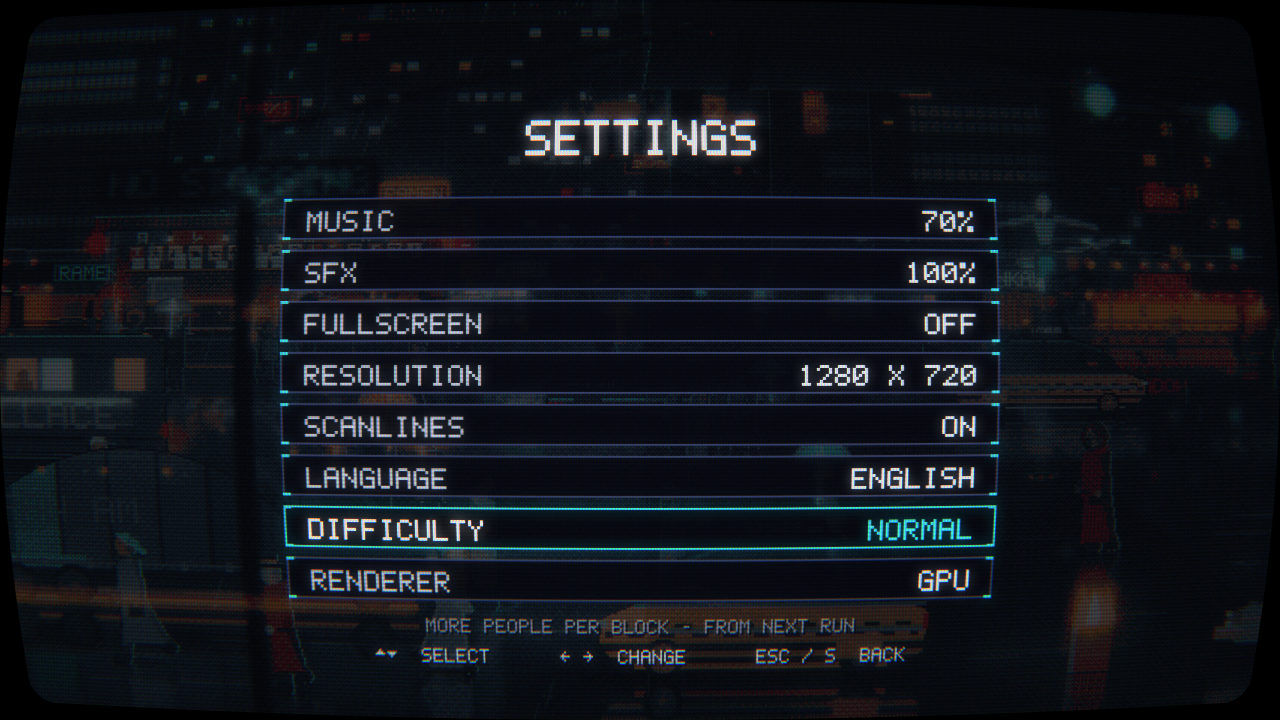
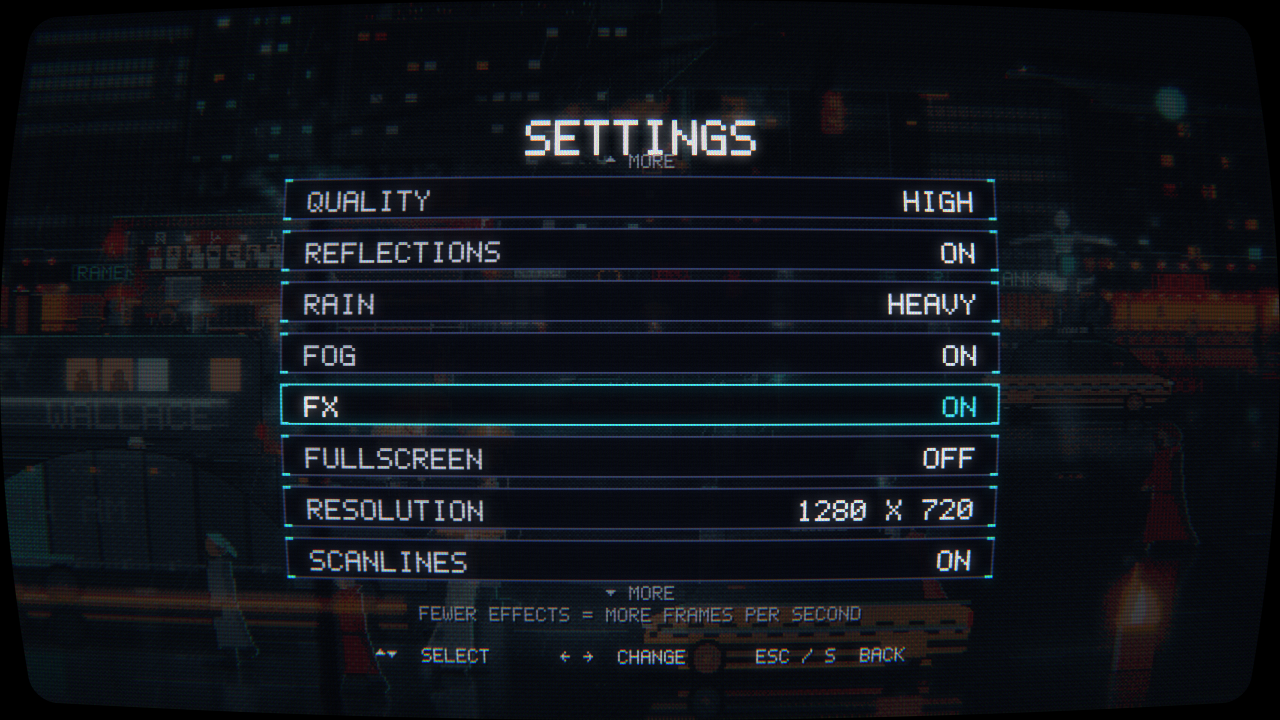
Leistungs-Einstellungen wie in der Android-Version: Qualitaet, Reflexionen, Regen, Nebel, FX
- Einstellungen: QUALITAET (HOCH/MITTEL/NIEDRIG) setzt die Einzeloptionen, jede
  danach einzeln umschaltbar; Liste scrollt (8 Zeilen sichtbar, wie im Port)
- Szene: Reflexionen (Strasse, Spiegelbilder, Schilder), Regen (viel/wenig/aus),
  Nebel, FX (Funken, Dampf, Rufwelle, Schwaden, Spritzer) abschaltbar;
  Kabel-Aufloesung je Qualitaet. NIEDRIG halbiert in dichten Vierteln etwa die
  CPU-Zeit je Bild
- i18n EN, Test test_settings_quality_presets (49/49), README EN/DE, Screenshot
  Einstellungen, 0.3.1

diff --git a/shadegunner/render/scene.py b/shadegunner/render/scene.py
@@ -33,6 +33,7 @@ SLATE = (104, 118, 126)
 TEAL, CYAN, MAGENTA, AMBER, GREEN = C[11], C[12], C[13], C[14], C[15]
 
 W, H = config.RENDER_W, config.RENDER_H
+_NULL_IMG = QImage()        # Reflexionen aus: drawImage zeichnet nichts
 PLUS = QPainter.CompositionMode.CompositionMode_Plus
 OVER = QPainter.CompositionMode.CompositionMode_SourceOver
 
@@ -149,6 +150,19 @@ class Scene:
         self._fg_img = QImage(w, h, QImage.Format.Format_ARGB32_Premultiplied)
         self._nb_img = QImage(w, h, QImage.Format.Format_ARGB32_Premultiplied)   # nah, leicht unscharf
         self._near = []
+        # Leistungs-Optionen (Einstellungen; wie im Android-Port). Default = volle Pracht.
+        self.opt_reflections = True
+        self.opt_rain = "viel"        # "viel" | "wenig" | "aus"
+        self.opt_fog = True
+        self.opt_fx = True
+        self.opt_quality = "hoch"     # "hoch" | "mittel" | "niedrig" (u. a. Kabel-Auflösung)
+        self._rain_applied = "viel"
+
+    def _apply_rain(self):
+        """Regenmenge gemäß opt_rain (Ausgangsmenge der Zone bleibt sonst gleich)."""
+        f = {"wenig": 0.6, "aus": 0.0}.get(self.opt_rain, 1.0)
+        self.fx.set_rain(self.city.th["rain"] * f)
+        self._rain_applied = self.opt_rain
 
     # ------------------------------------------------------------------ Zone
     def ensure_zone(self, zone_index, seed, length=None):
@@ -161,7 +175,7 @@ class Scene:
         vehicles.set_zone(zone_index)
         self.city = City(zone_index, float(length), seed)
         th = self.city.th
-        self.fx.set_rain(th["rain"])
+        self._apply_rain()
         rng = random.Random(seed + 77)
         self.bb_frames = [_billboard_frames(rng, bb[2], bb[3], rng.choice(("face", "logo", "kanji")), th["neon"])
                           for bb in self.city.billboards]
@@ -225,6 +239,8 @@ class Scene:
         cam_dx = 0.0 if self._last_cam is None else (cam - self._last_cam) * persp.PPU_NEAR * 0.6
         self._last_cam = cam
 
+        if self.opt_rain != self._rain_applied:
+            self._apply_rain()
         fx.update_rain(dt, cam_dx)
         fx.update_steam(dt)
         self._update_bikes(dt, cam)
@@ -279,7 +295,8 @@ class Scene:
         self._street(p, e, cam, t)
         self._holos(p, e, cam, t, "street")
         self._ramen(p, e, world, cam, t, dt)
-        self._shout_fx(p, e, world, cam, t)
+        if self.opt_fx:
+            self._shout_fx(p, e, world, cam, t)
         self._fog(p, 1, persp.FACADE_Y - 28, 72, cam * persp.ppu(0.0) + t * 9.0, min(1.0, fd * 0.7))
         self._spans_back(p, e, cam, t)
         self._near = []
@@ -290,26 +307,30 @@ class Scene:
             self._draw_dove(p, e, dv, cam)
         if self.dark > 0:
             p.fillRect(0, 0, W, H, QColor(2, 3, 10, int(165 * self.dark)))
-            self._glints(p, e, world, cam, boost=True)
+            if self.opt_fx:
+                self._glints(p, e, world, cam, boost=True)
             self._flashlight(p, e, world, cam)
         self._vehicle_lights(p, e, world, cam, t)
-        self._combat(p, e, world, cam, t)
-        fx.draw_steam(p, cam, city.facade.factor)
+        if self.opt_fx:
+            self._combat(p, e, world, cam, t)
+            fx.draw_steam(p, cam, city.facade.factor)
         self._patrol(p, e, world, cam, t)
         self._spinners(p, e, dt, t, near=True)
-        dry = self._span_clip(cam)
-        if dry is not None:
-            p.save()
-            p.setClipRegion(QRegion(0, 0, W, H).subtracted(dry))
-        fx.draw_rain(p, mix(th["fog"], PALE, 0.55))
-        if dry is not None:
-            p.restore()
-        self._beam_rain(p)
+        if self.opt_rain != "aus":
+            dry = self._span_clip(cam)
+            if dry is not None:
+                p.save()
+                p.setClipRegion(QRegion(0, 0, W, H).subtracted(dry))
+            fx.draw_rain(p, mix(th["fog"], PALE, 0.55))
+            if dry is not None:
+                p.restore()
+            self._beam_rain(p)
         self._fog(p, 1, H - 70, 78, cam * persp.ppu(1.15) + t * 14.0, min(1.0, fd * 0.42))
         # Ganzflächiger Nebelschleier: bei dichter Lage verschwimmt auch der Vordergrund
         # (Vordergrund liegt "näher an der Kamera", also über allem anderen).
         self._fog_img(p, city.bank, -30, H + 70, cam * persp.ppu(1.0) * 0.6 + t * 7.0, min(0.46, fd * 0.34))
-        self._wisps(p, dt, cam)
+        if self.opt_fx:
+            self._wisps(p, dt, cam)
         self._fg_e = e
         self._foreground(p, cam)
         self._fg_e = None
@@ -462,7 +483,7 @@ class Scene:
         self._fog_img(p, self.city.fog_layers[idx], y, h, scroll, opacity)
 
     def _fog_img(self, p, img, y, h, scroll, opacity):
-        if opacity <= 0.01:
+        if not self.opt_fog or opacity <= 0.01:
             return
         iw = img.width()
         off = scroll % iw
@@ -628,6 +649,8 @@ class Scene:
 
     def _fog_band(self, p):
         """Dunst über der Skyline: die Ferne versinkt stärker im Nebel als die Front."""
+        if not self.opt_fog:
+            return
         th = self.city.th
         fy = persp.FACADE_Y
         fd = getattr(self, "_fog_d", th["fog_amt"])
@@ -1098,7 +1121,7 @@ class Scene:
         lo = cam - W / persp.ppu(-0.075) * 0.5 - 120
         hi = cam + W / persp.ppu(-0.075) * 0.5 + 120
         i0 = bisect.bisect_left([w["x"] for w in ws], lo)
-        n = 28
+        n = {"hoch": 28, "mittel": 20}.get(self.opt_quality, 14)
         d_end = 2.4
         for w in ws[i0:]:
             if w["x"] > hi:
@@ -1171,7 +1194,7 @@ class Scene:
         band = 12
         k = getattr(self, "_reflk", 1.0) * (1.0 - 0.8 * self.dark)
         for refl, mode, op in ((city.facade_refl_body, OVER, min(1.0, 0.8 * k)),
-                               (city.facade_refl, PLUS, min(1.0, 0.95 * k))):
+                               (city.facade_refl, PLUS, min(1.0, 0.95 * k))) if self.opt_reflections else ():
             p.setCompositionMode(mode)
             p.setOpacity(op)
             for kb in range(0, min(refl.height(), H - fy), band):
@@ -1196,7 +1219,7 @@ class Scene:
             p.save()
             p.setClipRegion(reg)
             for refl, mode, op in ((city.facade_refl_body, OVER, min(1.0, 0.95 * k)),
-                                   (city.facade_refl, PLUS, min(1.0, 1.0 * k))):
+                                   (city.facade_refl, PLUS, min(1.0, 1.0 * k))) if self.opt_reflections else ():
                 p.setCompositionMode(mode)
                 p.setOpacity(op)
                 for kb in range(0, min(refl.height(), H - fy), band):
@@ -1222,7 +1245,7 @@ class Scene:
         # Neon-Spiegelung (live, mit Flackern) - ebenfalls weich
         p.setCompositionMode(PLUS)
         L0 = cam * fac.factor - W * 0.5 - 140
-        for s in city.visible(city.signs, city._sign_x, L0, L0 + W + 180):
+        for s in city.visible(city.signs, city._sign_x, L0, L0 + W + 180) if self.opt_reflections else ():
             x = fac.screen_x(s.L, cam)
             if x < -s.w or x > W or s.lit(t) <= 0 or (self.dark > 0.4 and s.seed % 4 != 0):
                 continue
@@ -1299,7 +1322,8 @@ class Scene:
             p.drawPolygon(QPolygonF([QPointF(x - 2, fy), QPointF(x + 2, fy),
                                      QPointF(x + 10, fy + 120), QPointF(x - 10, fy + 120)]))
         p.setCompositionMode(OVER)
-        self.fx.draw_splashes(p, mix(city.th["fog"], PALE, 0.5))
+        if self.opt_fx:
+            self.fx.draw_splashes(p, mix(city.th["fog"], PALE, 0.5))
 
     # ------------------------------------------------------------------ Überbauten
     D_FAR = config.FACADE_DEPTH
@@ -1775,6 +1799,8 @@ class Scene:
     def _mirror(self, img):
         """Wet-Street-Reflexion (progressiv scharf->weich, city.soft_reflection).
         Einmal pro Sprite gerechnet und gecacht - Rendern kostet nur ein drawImage."""
+        if not self.opt_reflections:
+            return _NULL_IMG
         key = img.cacheKey()
         r = self._refl.get(key)
         if r is None:

diff --git a/shadegunner/hud.py b/shadegunner/hud.py
@@ -621,6 +621,13 @@ class HUD:
     SETTING_ROWS = [
         ("music", "MUSIK", lambda s: f"{int(round(s['music'] * 100)):3d}%", "range"),
         ("sfx", "EFFEKTE", lambda s: f"{int(round(s['sfx'] * 100)):3d}%", "range"),
+        ("quality", "QUALITÄT", lambda s: {"hoch": "HOCH", "mittel": "MITTEL", "niedrig": "NIEDRIG"}.get(
+            s.get("quality", "hoch"), "HOCH"), "cycle"),
+        ("reflections", "REFLEXIONEN", lambda s: "AN" if s.get("reflections", True) else "AUS", "toggle"),
+        ("rain", "REGEN", lambda s: {"viel": "VIEL", "wenig": "WENIG", "aus": "AUS"}.get(s.get("rain", "viel"), "VIEL"),
+         "cycle"),
+        ("fog", "NEBEL", lambda s: "AN" if s.get("fog", True) else "AUS", "toggle"),
+        ("fx", "FX", lambda s: "AN" if s.get("fx", True) else "AUS", "toggle"),
         ("fullscreen", "VOLLBILD", lambda s: "AN" if s["fullscreen"] else "AUS", "toggle"),
         ("resolution", "AUFLÖSUNG", lambda s: f"{s['resolution'][0]} x {s['resolution'][1]}", "cycle"),
         ("scanlines", "SCANLINES", lambda s: "AN" if s["scanlines"] else "AUS", "toggle"),
@@ -630,29 +637,45 @@ class HUD:
         ("renderer", "RENDERER", lambda s: "GPU" if s.get("renderer") != "software" else "SOFTWARE", "toggle"),
     ]
 
+    # Geometrie der Einstellungsliste (scrollt, wenn nicht alle Zeilen passen - wie im Port)
+    SET_W, SET_ROWH, SET_GAP, SET_Y, SET_MAXROWS = 720, 42, 10, 176, 8
+
     def _settings(self, p, ui):
         self._dim(p, 200)
         s = ui.get("settings", {})
         sel = ui.get("settings_sel", 0)
         self._t(p, HW // 2, 120, "EINSTELLUNGEN", WHITE, 5, "center")
-        w, rowh, gap = 720, 42, 10
+        w, rowh, gap, maxrows = self.SET_W, self.SET_ROWH, self.SET_GAP, self.SET_MAXROWS
         x = (HW - w) // 2
-        y = 196
-        for i, (key, label, val, kind) in enumerate(self.SETTING_ROWS):
+        y = self.SET_Y
+        n = len(self.SETTING_ROWS)
+        first = max(0, min(sel - maxrows // 2, max(0, n - maxrows)))
+        last = min(first + maxrows, n)
+        if first > 0:
+            self._t(p, HW // 2, y - 22, "▲ MEHR", SLATE, 2, "center")
+        for i in range(first, last):
+            key, label, val, kind = self.SETTING_ROWS[i]
             on = i == sel
-            y0 = y + i * (rowh + gap)
+            y0 = y + (i - first) * (rowh + gap)
             self._box(p, x, y0, w, rowh, border=CYAN if on else INDIGO, alpha=225)
             self._t(p, x + 24, y0 + 13, label, WHITE if on else ASH, 3)
             self._t(p, x + w - 24, y0 + 13, val(s), CYAN if on else PALE, 3, "right")
             if kind == "range" and on:
                 self._t(p, x + w // 2 + 60, y0 + 15, "←  →", AMBER, 2, "center")
-        note = y + len(self.SETTING_ROWS) * (rowh + gap) + 8
+        if first + maxrows < n:
+            self._t(p, HW // 2, y + maxrows * (rowh + gap) - 6, "▼ MEHR", SLATE, 2, "center")
+        note = y + maxrows * (rowh + gap) + 16
         if s.get("renderer") == "software":
             self._t(p, HW // 2, note, "RENDERER WECHSELT MIT DEM NÄCHSTEN START", SLATE, 2, "center")
             note += 22
-        if self.SETTING_ROWS[sel][0] == "difficulty":
+        key = self.SETTING_ROWS[sel][0]
+        if key == "difficulty":
             self._t(p, HW // 2, note, "MEHR MENSCHEN JE VIERTEL - GILT AB DEM NÄCHSTEN EINSATZ", SLATE, 2, "center")
-        self._t(p, HW // 2, HH - 70, "▲▼  WÄHLEN      ← →  ÄNDERN      ESC / S  ZURÜCK", ASH, 2, "center")
+            note += 22
+        elif key in ("quality", "reflections", "rain", "fog", "fx"):
+            self._t(p, HW // 2, note, "WENIGER EFFEKTE = MEHR BILDER PRO SEKUNDE", SLATE, 2, "center")
+            note += 22
+        self._t(p, HW // 2, max(HH - 70, note + 2), "▲▼  WÄHLEN      ← →  ÄNDERN      ESC / S  ZURÜCK", ASH, 2, "center")
 
     def _pause(self, p):
         self._dim(p, 150)

diff --git a/shadegunner/game.py b/shadegunner/game.py
@@ -63,6 +63,7 @@ class _GameMixin:
         self.settings_sel = 0
         self._settings_back = "title"
         self.audio.set_volumes(self.settings["music"], self.settings["sfx"])
+        self._apply_perf()
 
         self._gl = None
         self.renderer = None
@@ -312,8 +313,33 @@ class _GameMixin:
             i18n.set_lang(s["lang"])
         elif key == "renderer":
             s["renderer"] = "software" if s.get("renderer") != "software" else "auto"
+        elif key == "quality":
+            order = ["hoch", "mittel", "niedrig"]
+            cur = s.get("quality", "hoch")
+            i = order.index(cur) if cur in order else 0
+            s["quality"] = order[(i + (1 if d > 0 else -1)) % len(order)]
+            s.update(settings.QUALITY[s["quality"]])
+            self._apply_perf()
+        elif key in ("reflections", "fog", "fx"):
+            s[key] = not s.get(key, True)
+            self._apply_perf()
+        elif key == "rain":
+            order = ["viel", "wenig", "aus"]
+            cur = s.get("rain", "viel")
+            i = order.index(cur) if cur in order else 0
+            s["rain"] = order[(i + (1 if d > 0 else -1)) % len(order)]
+            self._apply_perf()
         settings.save(s)
         self.audio.play("target")
+
+    def _apply_perf(self):
+        """Leistungs-Optionen an die Szene geben (Qualität, Reflexionen, Regen, Nebel, FX)."""
+        sc, s = self.scene, self.settings
+        sc.opt_quality = s.get("quality", "hoch")
+        sc.opt_reflections = bool(s.get("reflections", True))
+        sc.opt_rain = s.get("rain", "viel")
+        sc.opt_fog = bool(s.get("fog", True))
+        sc.opt_fx = bool(s.get("fx", True))
 
     def _apply_scanlines(self):
         if self.renderer is not None:

diff --git a/shadegunner/settings.py b/shadegunner/settings.py
@@ -6,8 +6,16 @@ import os
 from .save import _base_dir
 
 # renderer: "auto" (OpenGL, sonst Software) | "software" (immer CPU)
+# quality: Sammelstufe für die Leistungs-Optionen (reflections, rain, fog, fx) - wie im
+# Android-Port; einzeln änderbar. rain: "viel" | "wenig" | "aus".
 DEFAULTS = dict(music=0.7, sfx=1.0, fullscreen=False, resolution=[1280, 720],
-                scanlines=True, renderer="auto", difficulty="normal", lang="de")
+                scanlines=True, renderer="auto", difficulty="normal", lang="de",
+                quality="hoch", reflections=True, rain="viel", fog=True, fx=True)
+QUALITY = {
+    "hoch": dict(reflections=True, rain="viel", fog=True, fx=True),
+    "mittel": dict(reflections=False, rain="viel", fog=True, fx=True),
+    "niedrig": dict(reflections=False, rain="aus", fog=False, fx=False),
+}
 
 
 def _path():
@@ -30,6 +38,10 @@ def load():
         d["difficulty"] = "normal"
     if d.get("lang") not in ("de", "en"):
         d["lang"] = "de"
+    if d.get("quality") not in QUALITY:
+        d["quality"] = "hoch"
+    if d.get("rain") not in ("viel", "wenig", "aus"):
+        d["rain"] = "viel"
     return d
 
 

diff --git a/tests/test_sim.py b/tests/test_sim.py
@@ -794,6 +794,22 @@ def test_settings_rows_match_keys():
     assert "lang" in _GameMixin._SETTING_KEYS
 
 
+def test_settings_quality_presets():
+    """Leistungs-Optionen wie im Android-Port: Qualitätsstufen setzen die Einzeloptionen,
+    jede Stufe kennt alle Optionen, die Defaults sind gültig."""
+    from shadegunner import settings
+    from shadegunner.hud import HUD
+    keys = {"reflections", "rain", "fog", "fx"}
+    for q, preset in settings.QUALITY.items():
+        assert set(preset) == keys, q
+    assert settings.DEFAULTS["quality"] in settings.QUALITY
+    rows = [r[0] for r in HUD.SETTING_ROWS]
+    assert {"quality"} | keys <= set(rows)
+    d = dict(settings.DEFAULTS, quality="niedrig", **settings.QUALITY["niedrig"])
+    for r in HUD.SETTING_ROWS:
+        assert isinstance(r[2](d), str) and r[2](d), r[0]
+
+
 def test_towers_are_objects():
     for z in range(5):
         w = World(seed=7, zone_index=z)

diff --git a/shadegunner/i18n.py b/shadegunner/i18n.py
@@ -120,6 +120,19 @@ TR = {
     "SPRACHE": "LANGUAGE",
     "AN": "ON",
     "AUS": "OFF",
+    "QUALITÄT": "QUALITY",
+    "HOCH": "HIGH",
+    "MITTEL": "MEDIUM",
+    "NIEDRIG": "LOW",
+    "REFLEXIONEN": "REFLECTIONS",
+    "REGEN": "RAIN",
+    "VIEL": "HEAVY",
+    "WENIG": "LIGHT",
+    "NEBEL": "FOG",
+    "FX": "FX",
+    "▲ MEHR": "▲ MORE",
+    "▼ MEHR": "▼ MORE",
+    "WENIGER EFFEKTE = MEHR BILDER PRO SEKUNDE": "FEWER EFFECTS = MORE FRAMES PER SECOND",
     "LEICHT": "EASY",
     "NORMAL": "NORMAL",
     "SCHWER": "HARD",

diff --git a/shadegunner/__init__.py b/shadegunner/__init__.py
@@ -4,4 +4,4 @@ Engine-Renderpfad aus `asciiplay`: Bayer-Ordered-Dithering gegen eine feste
 Palette + CRT-Postprocessing. Siehe DESIGN.md.
 """
 
-__version__ = "0.3.0"
+__version__ = "0.3.1"

diff --git a/README.de.md b/README.de.md
@@ -174,11 +174,17 @@ Klang-Cache unter `%LOCALAPPDATA%\shadegunner\`.
 - Eine 16-Farben-Palette je Zone (`config.ZONE_LOOK`); das HUD behält `noir16`.
 - Das Spiel selbst ist **numpy-frei**; numpy wird nur zur Klang-Erzeugung genutzt
   (mit Fallback ohne numpy).
-- **Einstellungen** (Musik, Effekte, Vollbild, **Auflösung**, Scanlines, **Sprache**
-  Deutsch/Englisch, Schwierigkeit, Renderer) liegen
+- **Einstellungen** (Musik, Effekte, Qualität/Leistung, Vollbild, **Auflösung**,
+  Scanlines, **Sprache** Deutsch/Englisch, Schwierigkeit, Renderer) liegen
   neben dem Spielstand (`%APPDATA%\shadegunner\settings.json` bzw. XDG-Pfad). Im Fenster
   bekommt das Spiel exakt die gewählte Auflösung (zentriert); im Vollbild gilt die
   Bildschirmauflösung.
+- **Leistung** (wie in der [Android-Version](https://github.com/3p1cball-code/ShadeGunner-Android)):
+  **Qualität** HOCH/MITTEL/NIEDRIG setzt auf einen Schlag **Reflexionen** (nasse
+  Straße, Spiegelbilder), **Regen** (viel/wenig/aus), **Nebel** und **FX** (Funken,
+  Dampf, Rufwelle, Schwaden); jede Option ist danach auch einzeln umschaltbar.
+  NIEDRIG halbiert in dichten Vierteln etwa die CPU-Zeit je Bild – gedacht für
+  schwache Rechner und die Software-Ausgabe.
 - Tests: `python3 tests/test_sim.py` (Simulation, ohne GL).
 - Test-Cheat: irgendwo `giveall` tippen (unsterblich, Ausgang immer offen);
   `giveall1`–`giveall5` springt direkt in Sektor 1–5.

diff --git a/README.md b/README.md
@@ -178,11 +178,17 @@ under `%LOCALAPPDATA%\shadegunner\`.
 - One 16-color palette per zone (`config.ZONE_LOOK`); the HUD keeps `noir16`.
 - The game itself is **numpy-free**; numpy is only used for sound generation
   (with a fallback without numpy).
-- **Settings** (music, effects, fullscreen, **resolution**, scanlines,
-  **language**, difficulty, renderer) live next to the save
+- **Settings** (music, effects, quality/performance, fullscreen, **resolution**,
+  scanlines, **language**, difficulty, renderer) live next to the save
   (`%APPDATA%\shadegunner\settings.json` or the XDG path). In windowed mode the
   game gets exactly the chosen resolution (centered); in fullscreen the screen
   resolution applies.
+- **Performance** (as in the [Android version](https://github.com/3p1cball-code/ShadeGunner-Android)):
+  **Quality** HIGH/MEDIUM/LOW sets **reflections** (wet street, mirror images),
+  **rain** (heavy/light/off), **fog** and **FX** (sparks, steam, shout wave,
+  wisps) in one go; afterwards every option can be toggled on its own. LOW
+  roughly halves the CPU time per frame in the dense quarters – meant for weak
+  machines and the software output.
 - Tests: `python3 tests/test_sim.py` (simulation, no GL).
 - Test cheat: type `giveall` anywhere (immortal, exit always open);
   `giveall1`–`giveall5` jumps straight into sector 1–5.
